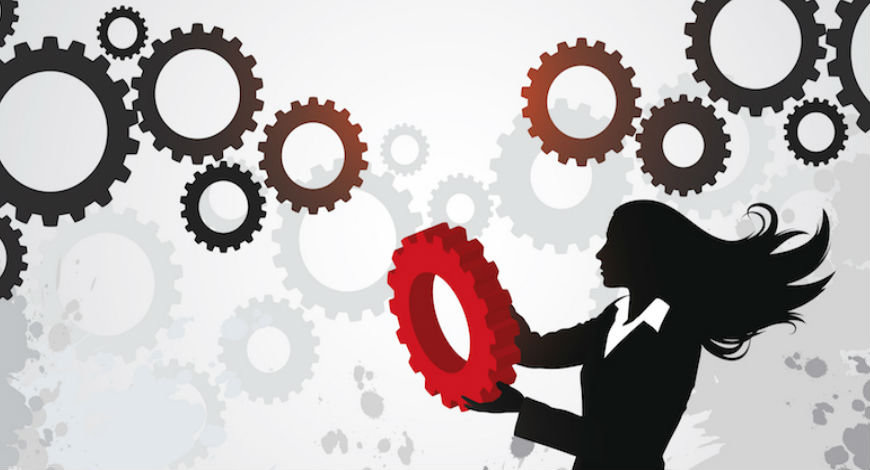
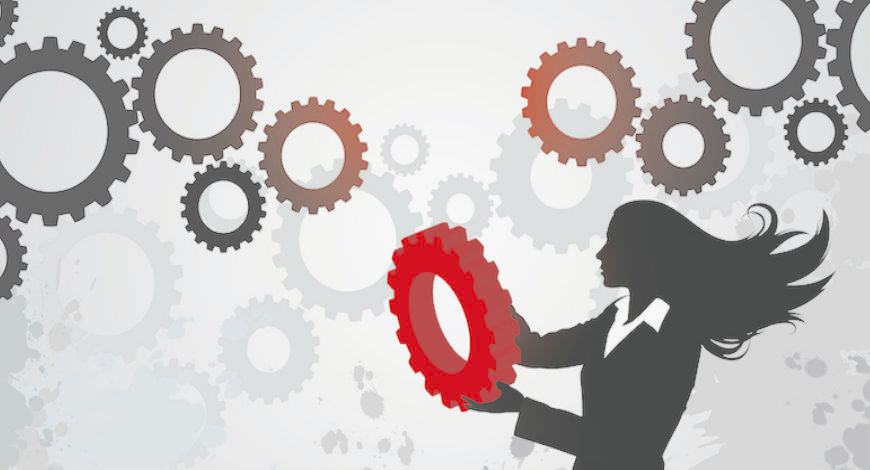
added whole folder

Changed region(s): [[0.4655, 0.0, 1.0, 1.0], [0.0, 0.0, 0.4345, 0.6553], [0.9, 0.7447, 1.0, 1.0]]

diff --git a/public/stylesheets/application.css b/public/stylesheets/application.css
@@ -1,7 +1,65 @@
 body {
-  background-image: url("women-in-tech-background.jpg");
+  background-image: url("edited.jpg");
+  background-repeat: no-repeat;
   background-size: cover;
   background-position: center;
-  background-repeat: no-repeat;
-  color: blue;
+  background-color: #7d7a7a;
+}
+  
+.info {
+  color: #39083F;
+  font-family: "Verdana", serif;
+  text-align: justify;
+  margin: 0 20px; 
+  
+}
+#personal_photo {
+  width: 300px;
+  margin: 10px 20px;
+}
+
+.title {
+  font-weight: bold;
+}
+
+.history {
+  text-decoration: none;
+  color: #C52B05;
+  margin: 20px;
+}
+
+.history:hover {
+  text-decoration: underline;
+}
+.email {
+  text-decoration: none;
+  color: #C52B05;
+  margin: 20px;
+}
+
+.email:hover {
+  text-decoration: underline;
+}
+
+.gitHub {
+  text-decoration: none;
+  color: #C52B05;
+}
+
+.gitHub:hover {
+  text-decoration: underline;
+}
+
+.linkedIn {
+   text-decoration: none;
+  color: #C52B05;
+}
+
+.linkedIn:hover {
+  text-decoration: underline;
+}
+
+
+.inline-block {
+  display: inline-block;
 }

diff --git a/app.rb b/app.rb
@@ -3,3 +3,7 @@ require 'sinatra'
 get '/' do
   erb :index
 end
+
+get "/history" do
+  erb :work
+end
